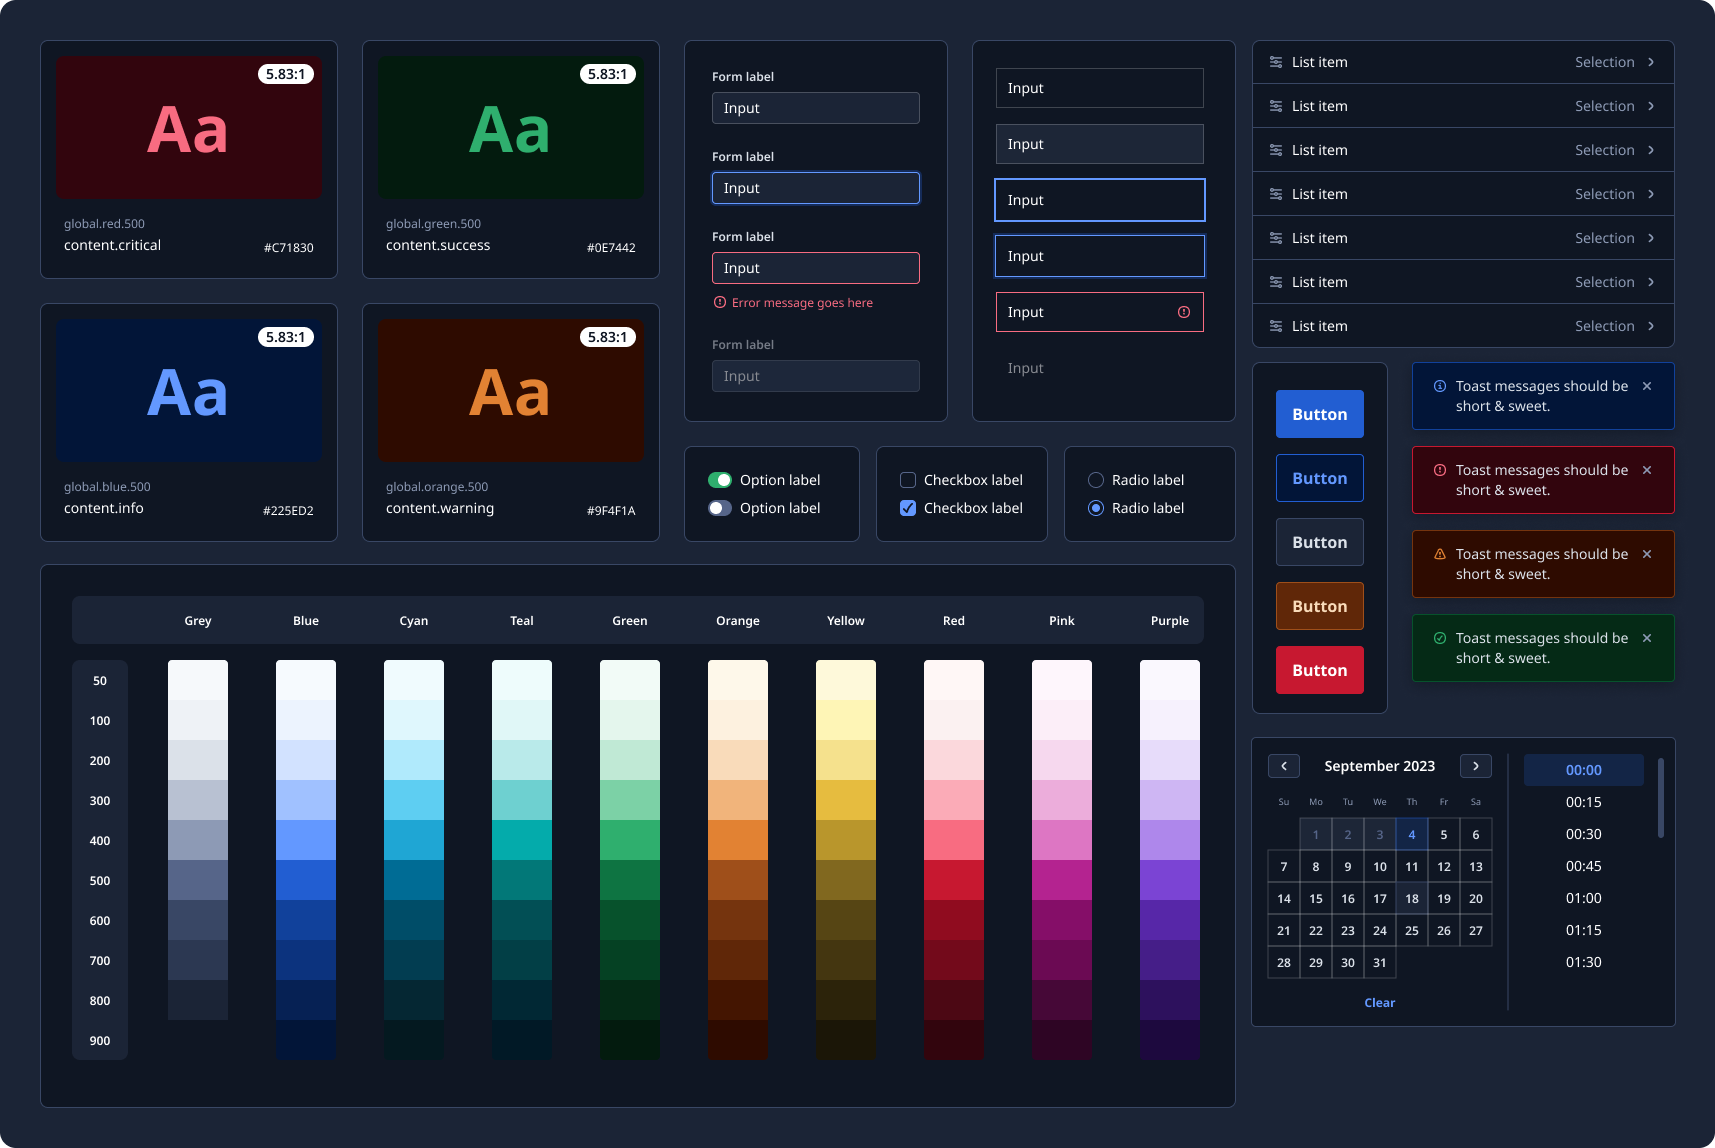
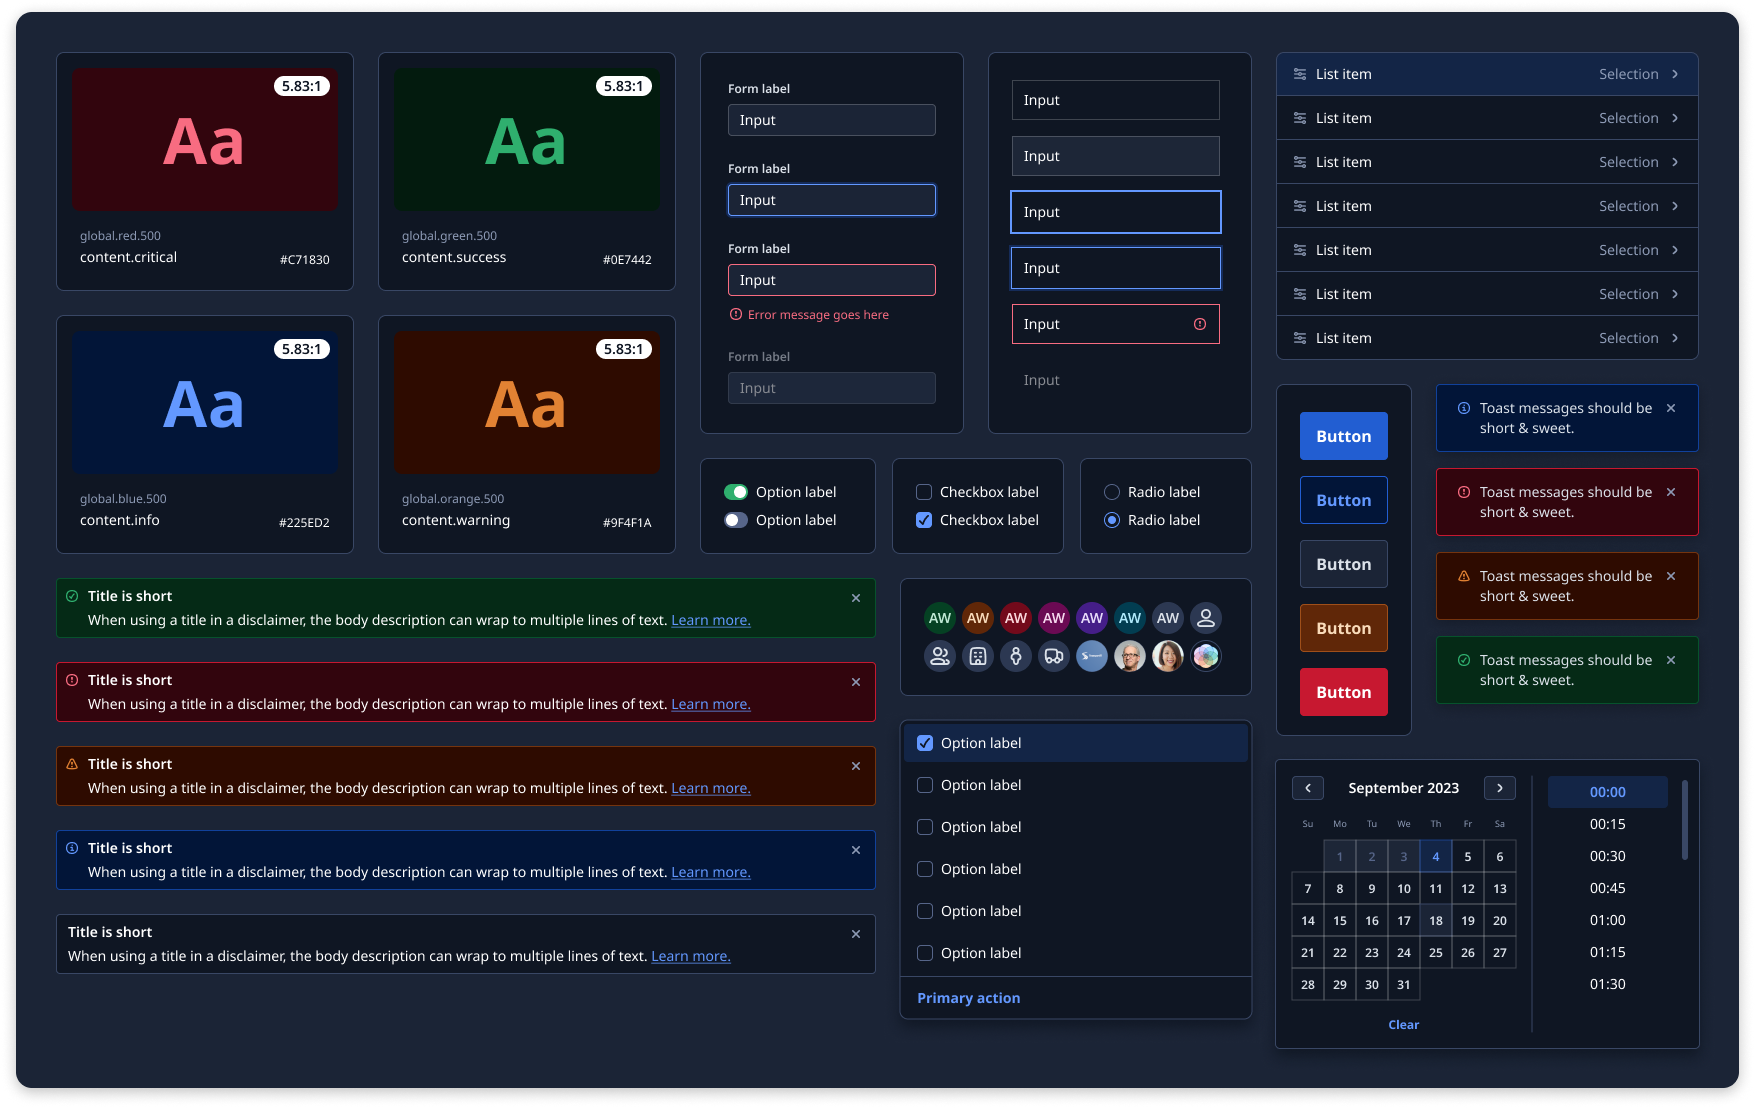
Content updates

diff --git a/zinnia.html b/zinnia.html
@@ -217,7 +217,7 @@
     <div>
       <h4 class="mb-1">🌸 Why "Zinnia"?</h4>
       <p class="content-weak mb-0">
-       I named our design system <b>Zinnia</b>, inspired by the first flower grown in space and a nod to our company name, Rose Rocket. Like the platform it supports, the system is meant to grow and evolve—its name is a reminder of that goal.
+       I named our design system <b>Zinnia</b>, inspired by the first flower grown in space and as a nod to our company name, Rose Rocket. Like any flower, a design system should grow, adapt, and evolve over time. "Zinnia" serves as a reminder of that goal.
       </p>
     </div>
   </div>
@@ -225,7 +225,7 @@
           <section id="section1" class="section">
             <h2 class="spacer-bottom-sm content-highlight">The Problem</h2>
               <h3 class="spacer-bottom-xs">A system that wasn't 'system-ing'</h3>
-              <p class="spacer-bottom-sm">When I joined Rose Rocket, the design system wasn’t really a system at all. The Figma file was disorganized, components were scattered, and the product UI was a patchwork of out-of-the-box libraries. This created a number of challenges:</p>
+              <p class="spacer-bottom-sm">When I first joined Rose Rocket, the design system wasn’t really a system at all. The Figma file was disorganized, components were scattered, and the product UI was a patchwork of out-of-the-box libraries. This created a number of challenges:</p>
               <div class="row spacer-bottom-sm">
                 <div class="col-lg-6 d-flex mb-4">
                   <div class="callout">
@@ -267,7 +267,7 @@
             <section id="section2" class="section">
               <h2 class="spacer-bottom-sm content-highlight">The Solution</h2>
               <h3 class="spacer-bottom-xs">Rebuilding from the ground up</h3>
-              <p class="spacer-bottom-sm">To fix the chaos, I led the effort to overhaul our design system. This wasn’t just cleanup—it was a foundational rebuild that brought alignment, consistency, and speed across teams.</p>
+              <p class="spacer-bottom-sm">To fix the chaos, I played a key role in the effort to overhaul our design system. This wasn’t just a cleanup—it was a foundational rebuild that brought alignment, consistency, and speed across teams.</p>
 <div class="spacer-bottom-sm">
 
  <!-- <img-comparison-slider class="slider slider-line spacer-bottom-xs">
@@ -296,7 +296,7 @@
 <hr class="hr">
               <section id="section2-1" class="section">
               <h3 class="spacer-top sm">Step 1: Audit & align</h3>
-              <p class="spacer-bottom-sm">I started with a full audit of the existing system. I catalogued inconsistencies, documented accessibility gaps, and prioritized what to fix first. This set the direction and got the team aligned.</p>
+              <p class="spacer-bottom-sm">I kicked it off with a full audit of the existing system. I catalogued inconsistencies, documented accessibility gaps, and prioritized what to fix first. This helped set the direction and got the team aligned.</p>
               
               <div class="toggle-container spacer-bottom-sm">
                 <!-- Image with Fancybox -->
@@ -306,13 +306,13 @@
                        alt="A screenshot of the audit spreadsheet showing notes, links, pass/fail scoring, and priorities">
                 </a>
                 <!-- Caption underneath the image -->
-                <p class="caption">A screenshot of the audit spreadsheet showing notes, links, pass/fail scoring, and priorities.</p>
+                <p class="caption">A screenshot of the audit spreadsheet I created, showing notes, links, pass/fail scoring, and priorities.</p>
               </div>
               </section>
               <hr class="hr">
               <section id="section2-2" class="section">
               <h3 class="spacer-top sm">Step 2: Revamp accessibility</h3>
-              <p>One major gap was our color scale—it was manually created, uneven, and not accessible.</p> 
+              <p>One major gap I identified during the audit was our color scale. The original had been manually built, leading to inaccessibility and uneven steps.</p> 
               <p class="spacer-bottom-sm">I used Leonardo, an open-source tool that builds color scales based on contrast. The new palette, structured from 50 to 900, ensured all midtones (500+) met WCAG 2.0 standards on neutral backgrounds.</p>
               <div class="toggle-container spacer-bottom-md">
                 <!-- Image with Fancybox -->
